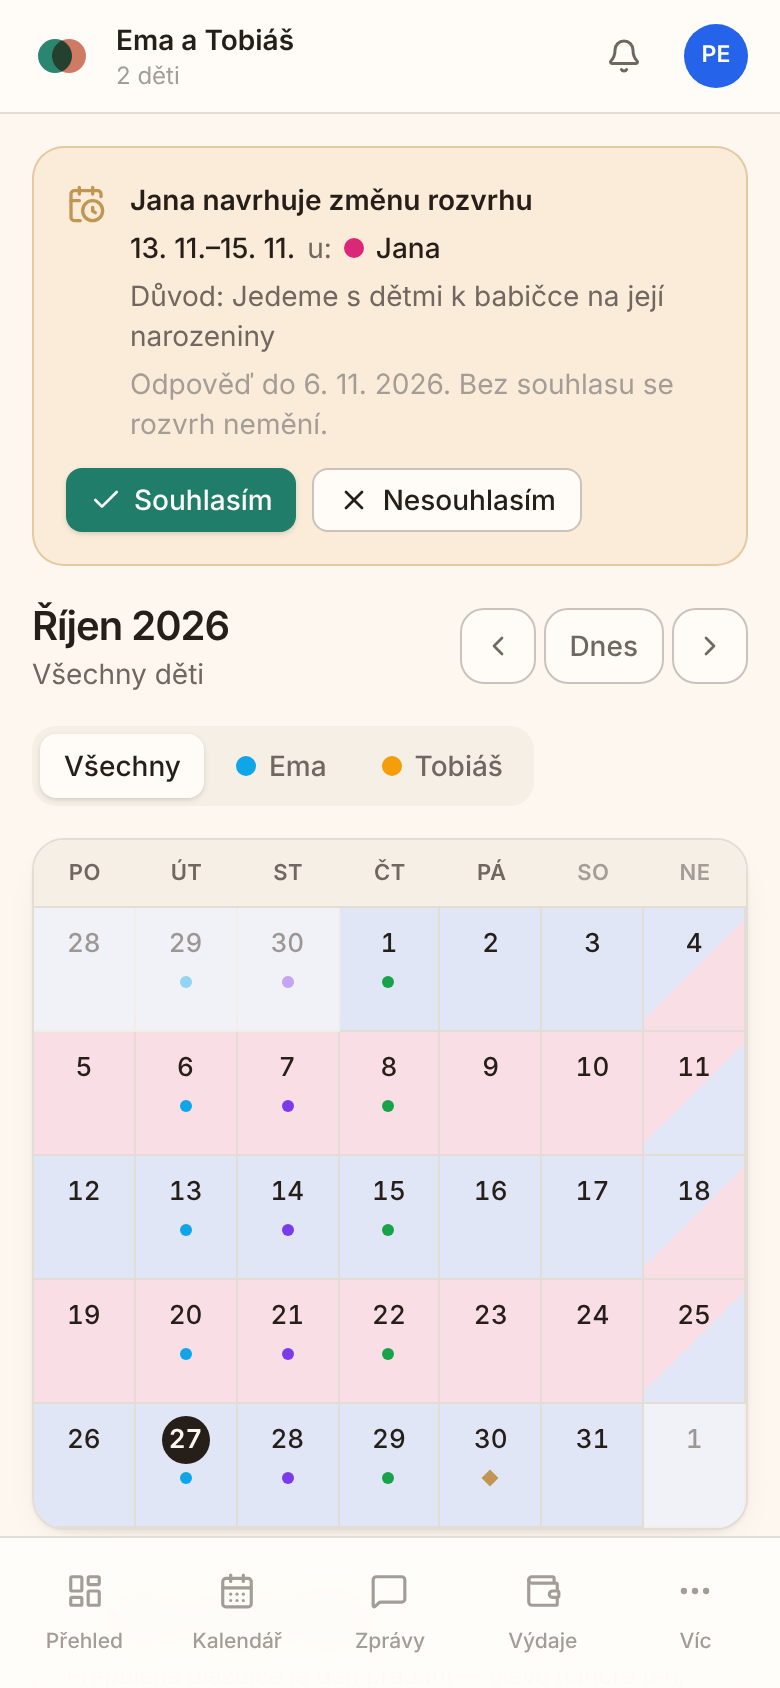
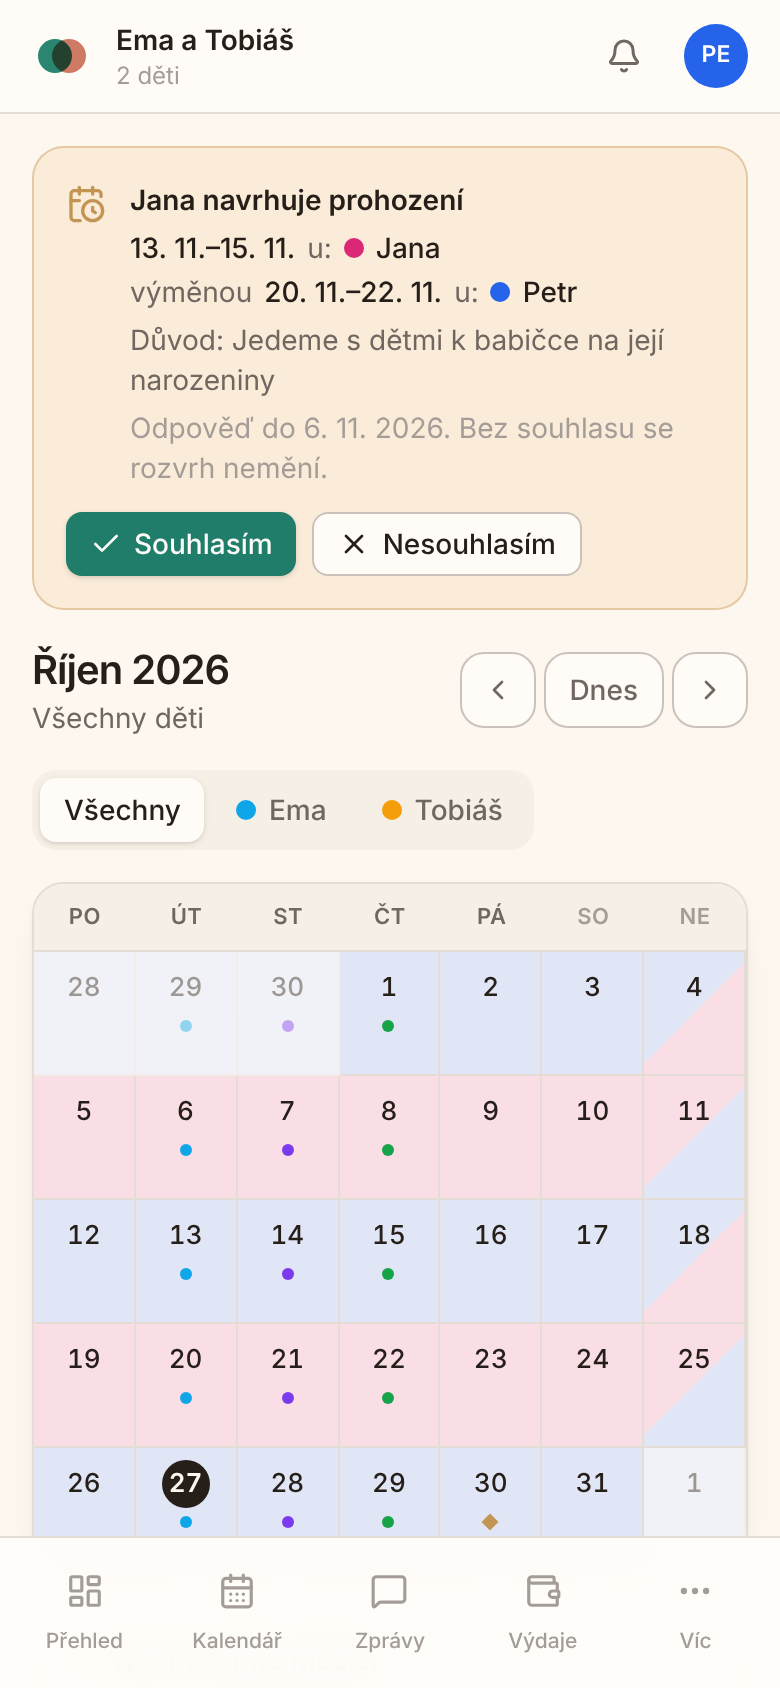
Prohození dnů v žádosti o změnu rozvrhu
„Tenhle víkend si je vezmu já, za to ty máš ten příští." Žádost může
mít kromě dnů změny i dny výměnou, které připadnou druhé straně; obojí
se schvaluje jedním souhlasem a propíše se najednou.

- Migrace 0033: vymena_od/vymena_do (nesmí se krýt se dny změny),
  navrhni_zmenu s nepovinnou výměnou (starý tvar volání funguje dál),
  odpovez_na_zadost zapíše obě části, prohození s proběhlou polovinou
  schválit nejde. Texty zpráv „Navrhuji prohození… výměnou…".
- Formulář: „Výměnou nabízím jiné dny", karta žádosti a notifikace
  rozlišují prohození.
- tests/db/prohozeni.sql (ověřeno na PostgreSQL 16).

Claude-Session: https://claude.ai/code/session_012ceTFo92tsdUjMnfXdJ47N

diff --git a/src/components/calendar/navrh-zmeny.tsx b/src/components/calendar/navrh-zmeny.tsx
@@ -39,6 +39,10 @@ export function NavrhZmeny({
   const [doDne, setDoDne] = React.useState(dayKey);
   const [duvod, setDuvod] = React.useState("");
   const [termin, setTermin] = React.useState(vychoziTerminOdpovedi(dayKey, dnes));
+  // Prohození: dny, které výměnou připadnou druhé straně.
+  const [vymena, setVymena] = React.useState(false);
+  const [vymenaOd, setVymenaOd] = React.useState("");
+  const [vymenaDo, setVymenaDo] = React.useState("");
   const [busy, setBusy] = React.useState(false);
   const [chyba, setChyba] = React.useState<string | null>(null);
   const [odeslano, setOdeslano] = React.useState(false);
@@ -73,7 +77,14 @@ export function NavrhZmeny({
     );
   }
 
+  const opacna: CustodySide = strana === "a" ? "b" : "a";
+  const konecZmeny = doDne < dayKey ? dayKey : doDne;
+
   async function odeslat() {
+    if (vymena && (!vymenaOd || !vymenaDo)) {
+      setChyba("U výměny vyplňte od kdy i do kdy.");
+      return;
+    }
     setBusy(true);
     setChyba(null);
     const supabase = createClient();
@@ -81,10 +92,12 @@ export function NavrhZmeny({
       target_family: session.family.id,
       dite: childId,
       od: dayKey,
-      do_dne: doDne < dayKey ? dayKey : doDne,
+      do_dne: konecZmeny,
       strana,
       duvod,
       odpovedet_do: termin,
+      vymena_od: vymena ? vymenaOd : null,
+      vymena_do: vymena ? (vymenaDo < vymenaOd ? vymenaOd : vymenaDo) : null,
     });
     setBusy(false);
     if (error) {
@@ -129,12 +142,54 @@ export function NavrhZmeny({
           <Input
             type="date"
             min={dnes}
-            max={dayKey}
+            max={vymena && vymenaOd && vymenaOd < dayKey ? vymenaOd : dayKey}
             value={termin}
             onChange={(e) => setTermin(e.target.value)}
           />
         </Field>
       </div>
+
+      <label className="flex items-start gap-2.5 text-sm text-ink">
+        <input
+          type="checkbox"
+          className="mt-0.5 h-4 w-4 accent-[var(--brand)]"
+          checked={vymena}
+          onChange={(e) => setVymena(e.target.checked)}
+        />
+        <span>
+          <span className="font-medium">Výměnou nabízím jiné dny</span>
+          <span className="block text-xs text-ink-muted">
+            Prohození: v těch dnech budou děti u: {sideLabel(session.members, opacna)}. Schvaluje
+            se obojí najednou.
+          </span>
+        </span>
+      </label>
+
+      {vymena ? (
+        <div className="grid grid-cols-2 gap-3">
+          <Field label="Výměnou od">
+            <Input
+              type="date"
+              min={dnes}
+              value={vymenaOd}
+              onChange={(e) => {
+                setVymenaOd(e.target.value);
+                if (!vymenaDo || vymenaDo < e.target.value) setVymenaDo(e.target.value);
+                // Termín odpovědi nesmí být až po prvním dni výměny.
+                if (e.target.value && termin > e.target.value) setTermin(e.target.value);
+              }}
+            />
+          </Field>
+          <Field label="do (včetně)">
+            <Input
+              type="date"
+              min={vymenaOd || dnes}
+              value={vymenaDo}
+              onChange={(e) => setVymenaDo(e.target.value)}
+            />
+          </Field>
+        </div>
+      ) : null}
 
       <Field label="Důvod" hint="nepovinné">
         <Textarea
@@ -155,7 +210,7 @@ export function NavrhZmeny({
 
       <div className="flex flex-wrap gap-2">
         <Button size="sm" disabled={busy} onClick={odeslat}>
-          <Send className="h-4 w-4" /> Odeslat návrh
+          <Send className="h-4 w-4" /> {vymena ? "Navrhnout prohození" : "Odeslat návrh"}
         </Button>
         <Button size="sm" variant="ghost" disabled={busy} onClick={() => setOtevreno(false)}>
           Zrušit

diff --git a/src/components/calendar/zadosti-zmeny.tsx b/src/components/calendar/zadosti-zmeny.tsx
@@ -55,6 +55,8 @@ function KartaZadosti({ session, zadost }: { session: SessionContext; zadost: Za
   const [text, setText] = React.useState("");
 
   const moje = zadost.navrhl === session.userId;
+  const prohozeni = Boolean(zadost.vymena_od && zadost.vymena_do);
+  const opacna = zadost.strana === "a" ? "b" : "a";
   const muzeOdpovidat = !moje && session.myMembership.role !== "viewer";
   const dite = zadost.child_id
     ? session.children.find((c) => c.id === zadost.child_id)?.name
@@ -85,7 +87,13 @@ function KartaZadosti({ session, zadost }: { session: SessionContext; zadost: Za
         <CalendarClock className="mt-0.5 h-5 w-5 shrink-0 text-warning" aria-hidden />
         <div className="min-w-0 flex-1 text-sm">
           <p className="font-semibold text-ink">
-            {moje ? "Navrhli jste změnu rozvrhu" : `${zadost.navrhl_jmeno} navrhuje změnu rozvrhu`}
+            {moje
+              ? prohozeni
+                ? "Navrhli jste prohození"
+                : "Navrhli jste změnu rozvrhu"
+              : prohozeni
+                ? `${zadost.navrhl_jmeno} navrhuje prohození`
+                : `${zadost.navrhl_jmeno} navrhuje změnu rozvrhu`}
           </p>
           <p className="mt-1 flex flex-wrap items-center gap-x-1.5 text-ink">
             <span className="font-medium">{rozsahDnu(zadost.od, zadost.do_dne)}</span>
@@ -94,6 +102,15 @@ function KartaZadosti({ session, zadost }: { session: SessionContext; zadost: Za
             <Dot color={sideColor(session.members, zadost.strana)} />
             <span className="font-medium">{sideLabel(session.members, zadost.strana)}</span>
           </p>
+          {prohozeni ? (
+            <p className="mt-0.5 flex flex-wrap items-center gap-x-1.5 text-ink">
+              <span className="text-ink-muted">výměnou</span>
+              <span className="font-medium">{rozsahDnu(zadost.vymena_od!, zadost.vymena_do!)}</span>
+              <span className="text-ink-muted">u:</span>
+              <Dot color={sideColor(session.members, opacna)} />
+              <span className="font-medium">{sideLabel(session.members, opacna)}</span>
+            </p>
+          ) : null}
           {zadost.duvod ? <p className="mt-1 text-ink-muted">Důvod: {zadost.duvod}</p> : null}
           <p className={poTerminu ? "mt-1 font-medium text-danger" : "mt-1 text-ink-subtle"}>
             {poTerminu

diff --git a/src/app/api/zadosti/oznam/route.ts b/src/app/api/zadosti/oznam/route.ts
@@ -26,7 +26,7 @@ export async function POST(request: NextRequest) {
   // Přes klienta přihlášeného uživatele: RLS pustí jen žádost jeho rodiny.
   const { data: z } = await supabase
     .from("zadosti_zmeny")
-    .select("id, family_id, od, do_dne, stav, navrhl, navrhl_jmeno")
+    .select("id, family_id, od, do_dne, vymena_od, stav, navrhl, navrhl_jmeno")
     .eq("id", zadostId)
     .maybeSingle();
   if (!z) return NextResponse.json({ ok: true });
@@ -46,7 +46,9 @@ export async function POST(request: NextRequest) {
       .in("role", ["owner", "parent"])
       .not("custody_side", "is", null);
     komu = (rodice ?? []).map((r) => String(r.user_id)).filter((u) => u !== ja);
-    titulek = `${z.navrhl_jmeno} navrhuje změnu rozvrhu ${rozsah}`;
+    titulek = z.vymena_od
+      ? `${z.navrhl_jmeno} navrhuje prohození ${rozsah}`
+      : `${z.navrhl_jmeno} navrhuje změnu rozvrhu ${rozsah}`;
   } else if (z.stav === "schvaleno" || z.stav === "zamitnuto") {
     if (!z.navrhl || z.navrhl === ja) return NextResponse.json({ ok: true });
     komu = [String(z.navrhl)];

diff --git a/src/lib/ukazkova-rodina.ts b/src/lib/ukazkova-rodina.ts
@@ -142,11 +142,12 @@ export function ukazkovaRodina(dnes: Date = new Date()) {
     zprava("z4", TATA, "Petr", -1, "12:20", "Koupím je dnes, účtenku dám do výdajů."),
   ];
 
-  // Jana navrhuje prodloužený víkend — žádost čeká na Petra.
+  // Jana navrhuje prohození víkendů — žádost čeká na Petra.
   const zadosti: ZadostZmeny[] = [
     {
       id: "zz1", family_id: "f-ukazka", child_id: null,
       od: vTydnu(5, 2), do_dne: vTydnu(7, 2), strana: "b",
+      vymena_od: vTydnu(5, 3), vymena_do: vTydnu(7, 3),
       duvod: "Jedeme s dětmi k babičce na její narozeniny",
       navrhl: MAMA, navrhl_jmeno: "Jana", odpovedet_do: vTydnu(5, 1),
       stav: "ceka", odpovedel: null, odpoved: null, vyrizeno_at: null, created_at: den(-1),

diff --git a/src/app/(web)/pro-ospod-a-soudy/page.tsx b/src/app/(web)/pro-ospod-a-soudy/page.tsx
@@ -62,7 +62,7 @@ export default function ProOspodASoudy() {
             {
               nazev: "Rozvrh nezmění jeden rodič sám",
               popis:
-                "Změnu navrhne jeden, schválí druhý. Bez souhlasu se kalendář nezmění — hlídá to databáze, ne dobrá vůle.",
+                "Změnu nebo prohození dnů navrhne jeden, schválí druhý. Bez souhlasu se kalendář nezmění — hlídá to databáze, ne dobrá vůle.",
             },
             {
               nazev: "Záznam, který nejde přepsat",

diff --git a/src/lib/types.ts b/src/lib/types.ts
@@ -359,6 +359,9 @@ export interface ZadostZmeny {
   od: string;
   do_dne: string;
   strana: CustodySide;
+  /** Prohození: tyhle dny připadnou druhé straně (migrace 0033). */
+  vymena_od?: string | null;
+  vymena_do?: string | null;
   duvod: string | null;
   navrhl: string | null;
   navrhl_jmeno: string;

diff --git a/docs/ourfamilywizard.md b/docs/ourfamilywizard.md
@@ -24,7 +24,7 @@ orientační.
 | Funkce OFW | Co dělá | Klidoo |
 |---|---|---|
 | Sdílený kalendář | Rozvrh péče, události | ✅ Má, včetně nocí, prázdnin podle okresu a EduPage |
-| **Trade/Swap** | Žádost o výměnu termínu. Druhý rodič schválí nebo zamítne do určitého data, schválená změna se sama propíše do kalendáře | ✅ **Má od 27. 10. 2026** (migrace 0032). Při dvou rodičích nejde kalendář změnit bez souhlasu, hlídá to databáze; návrh i odpověď jsou ve Zprávách |
+| **Trade/Swap** | Žádost o výměnu termínu. Druhý rodič schválí nebo zamítne do určitého data, schválená změna se sama propíše do kalendáře | ✅ **Má od 27. 10. 2026** (migrace 0032, prohození dnů 0033). Při dvou rodičích nejde kalendář změnit bez souhlasu, hlídá to databáze; návrh i odpověď jsou ve Zprávách |
 | Zprávy se záznamem | Nejde je měnit, čas doručení a přečtení | ✅ Má (nejdou upravit ani smazat, razítko odeslání a přečtení) |
 | **ToneMeter** | Při psaní upozorní na útočné nebo emotivní formulace | ❌ **Chybí** |
 | Výdaje | Evidence, rozdělení, zůstatek | ✅ Má (účtenky, klíč, vyrovnání) |
